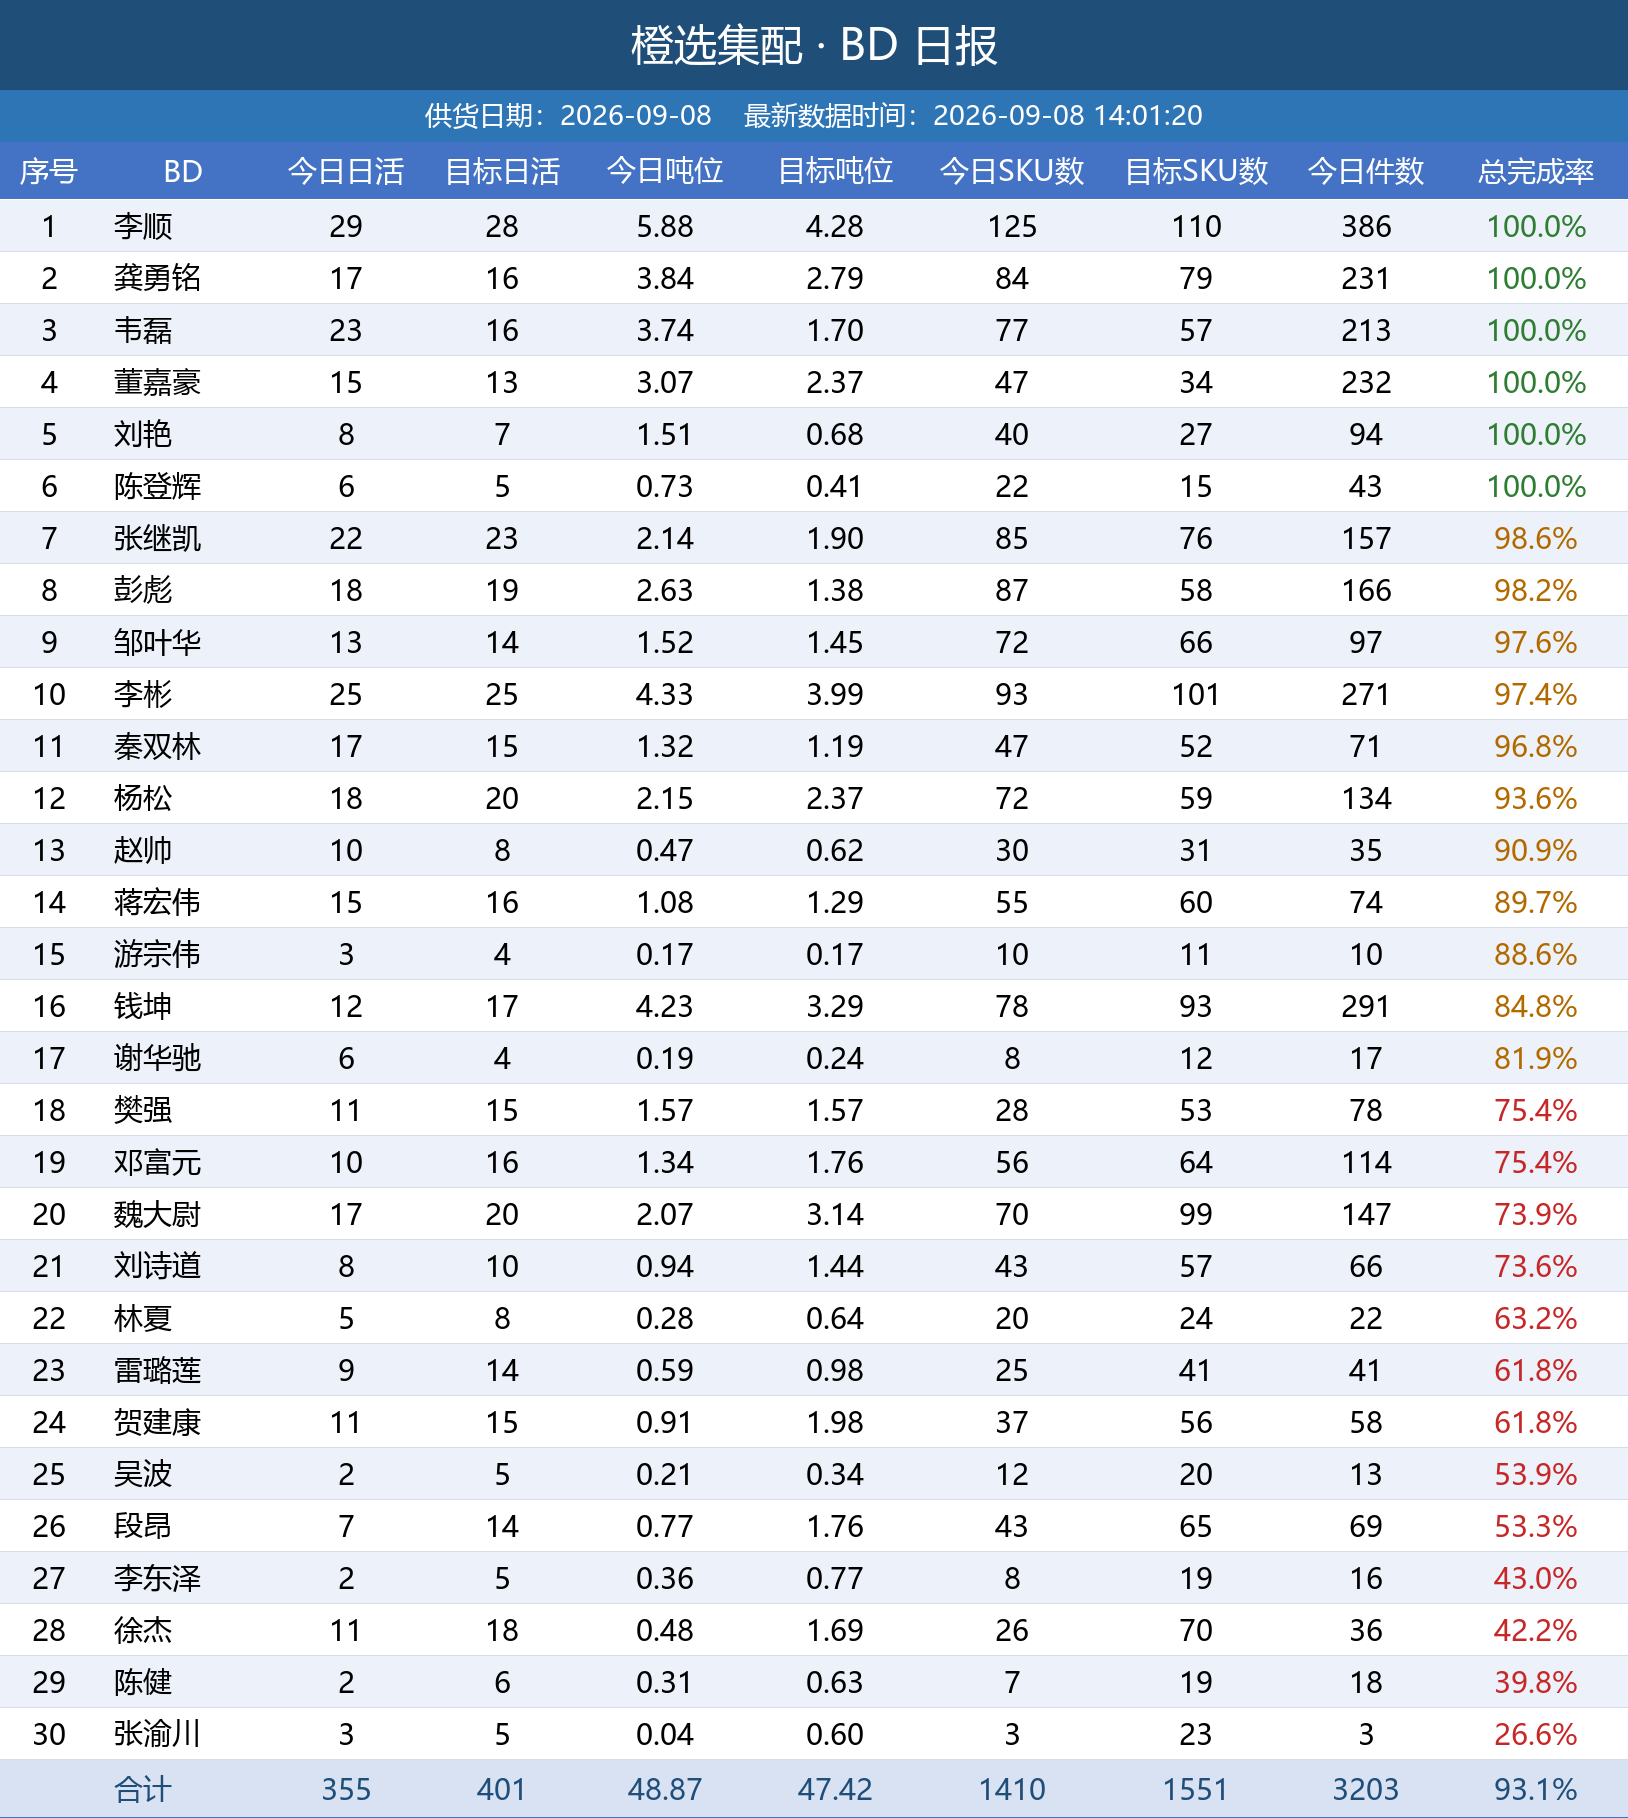
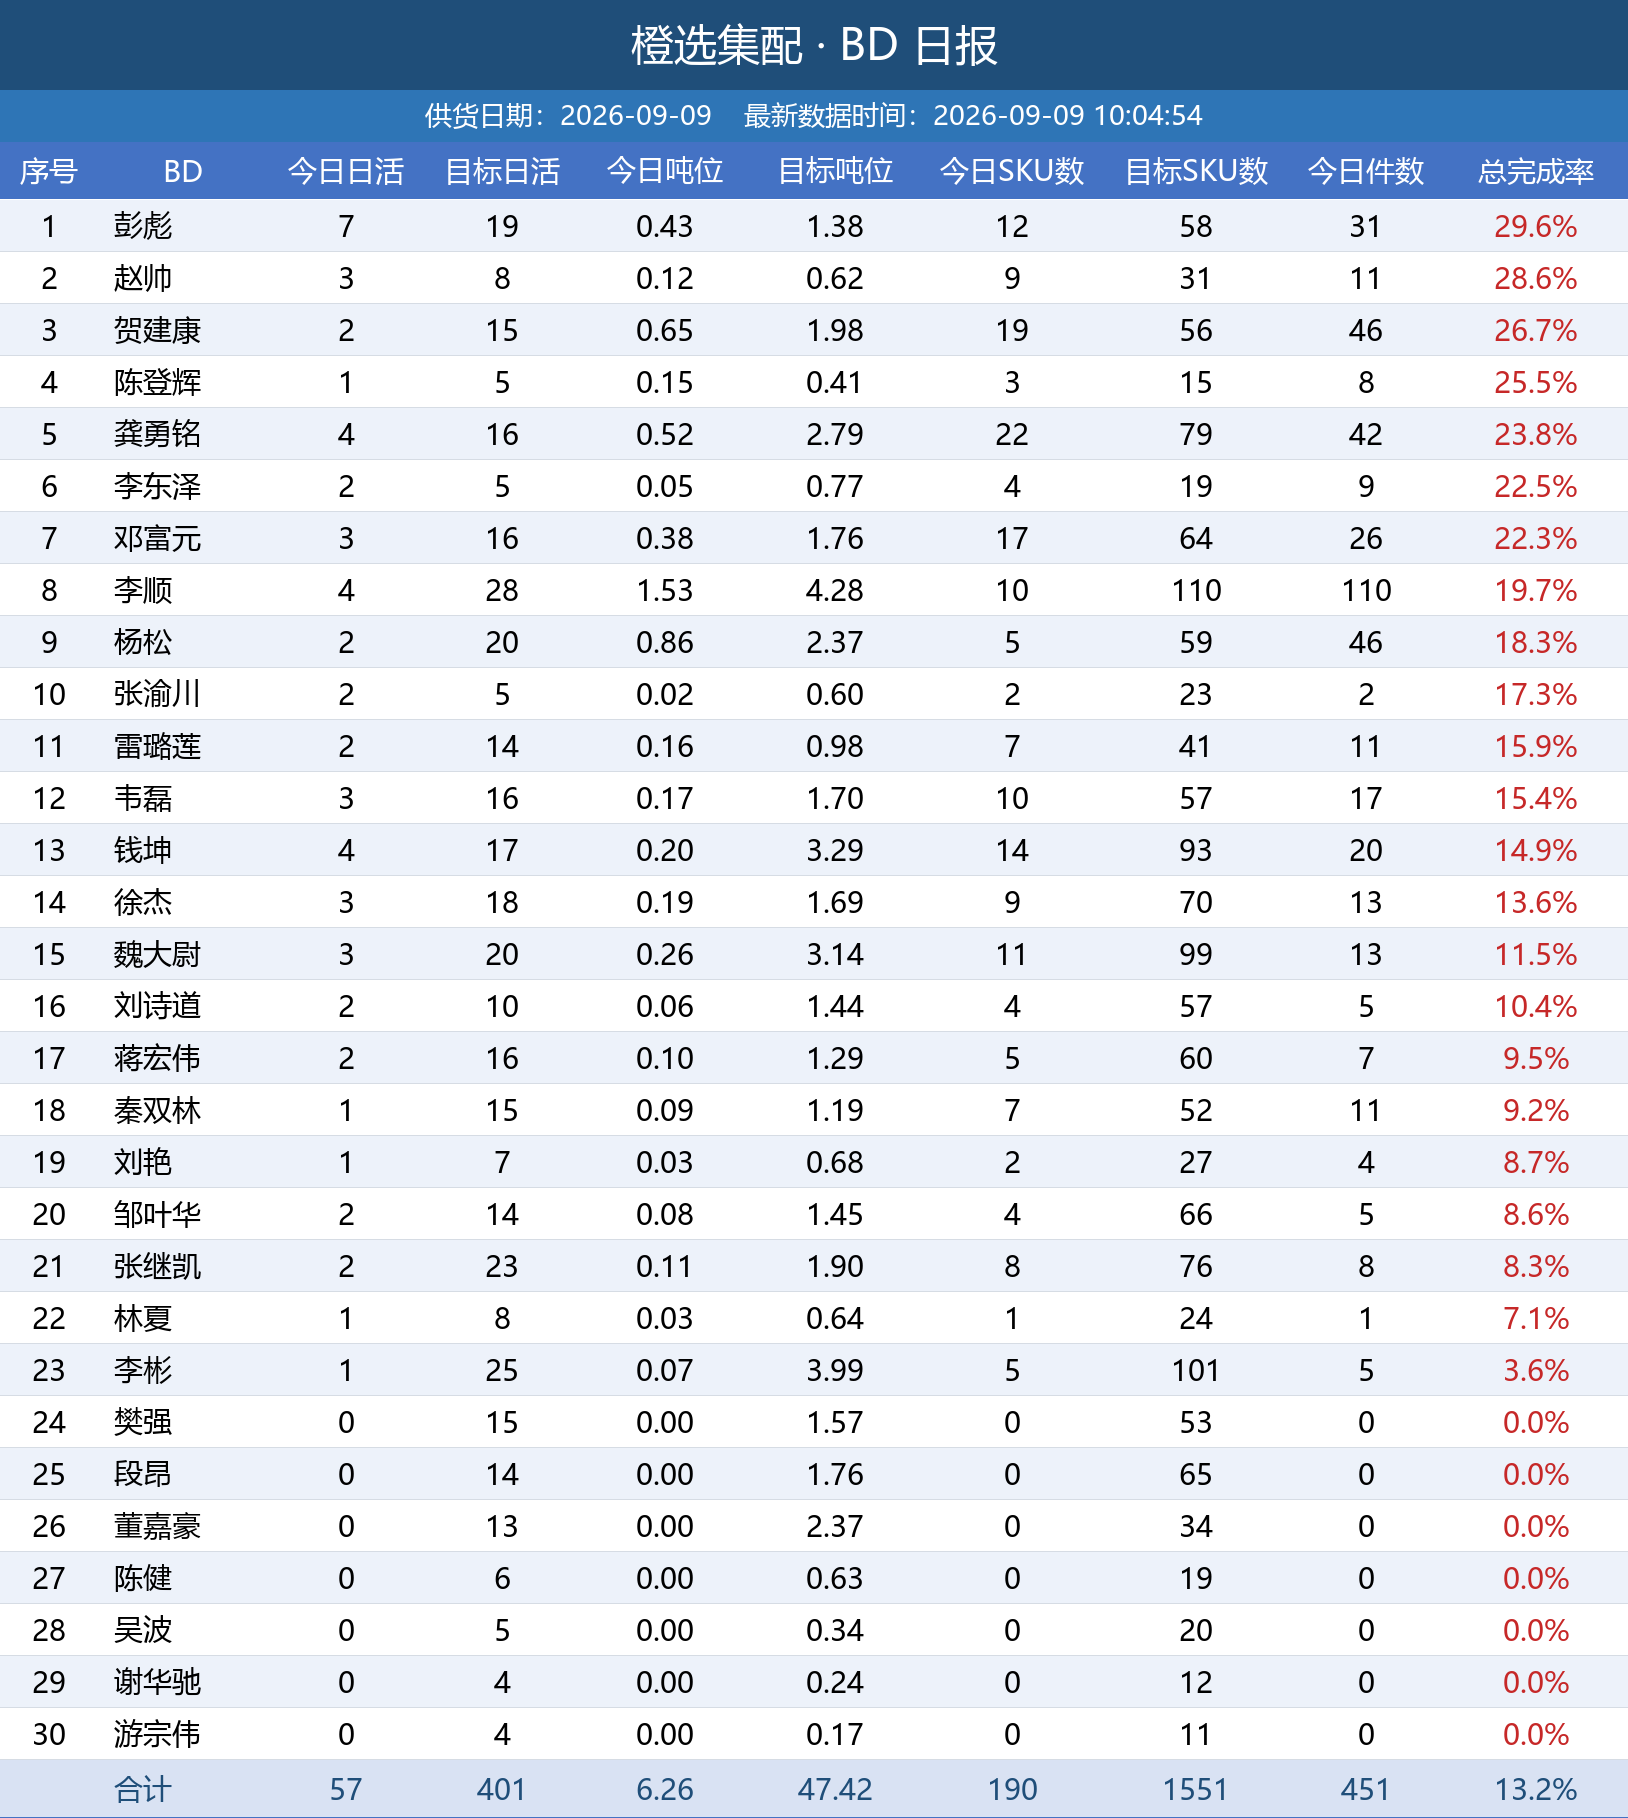
自动更新日报图片

diff --git a/index.html b/index.html
@@ -11,7 +11,7 @@ img { max-width: 100%; border: 1px solid #e5e5e5; margin-bottom: 24px; display: 
 </style>
 </head>
 <body>
-<h1>橙选集配日报图片（20260908_140133）</h1>
+<h1>橙选集配日报图片（20260909_100457）</h1>
 <img src="bd_latest.png" alt="BD 日报">
 <img src="wh_latest.png" alt="城市仓日报">
 <img src="zs_latest.png" alt="招商日报">
